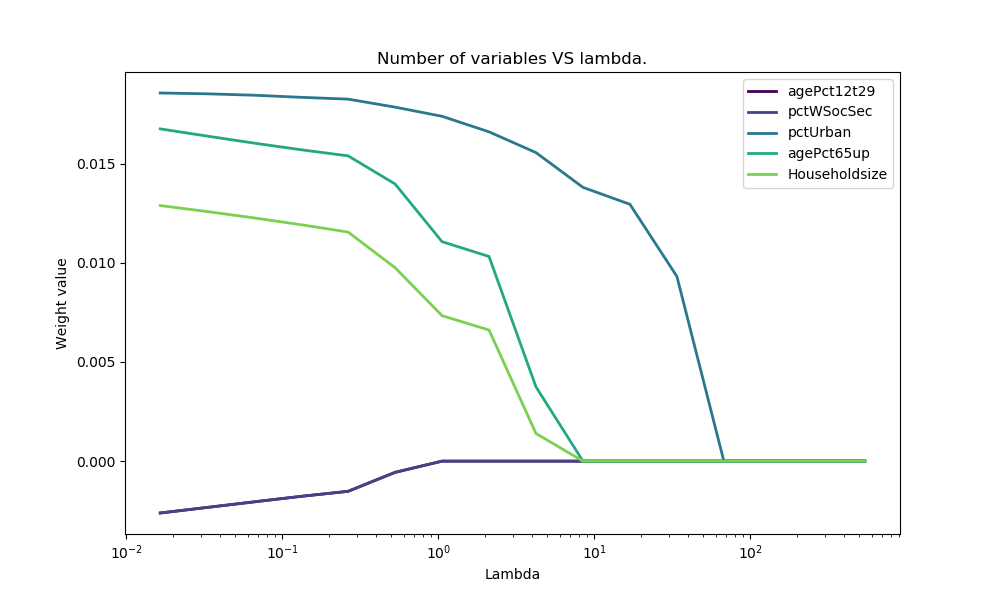
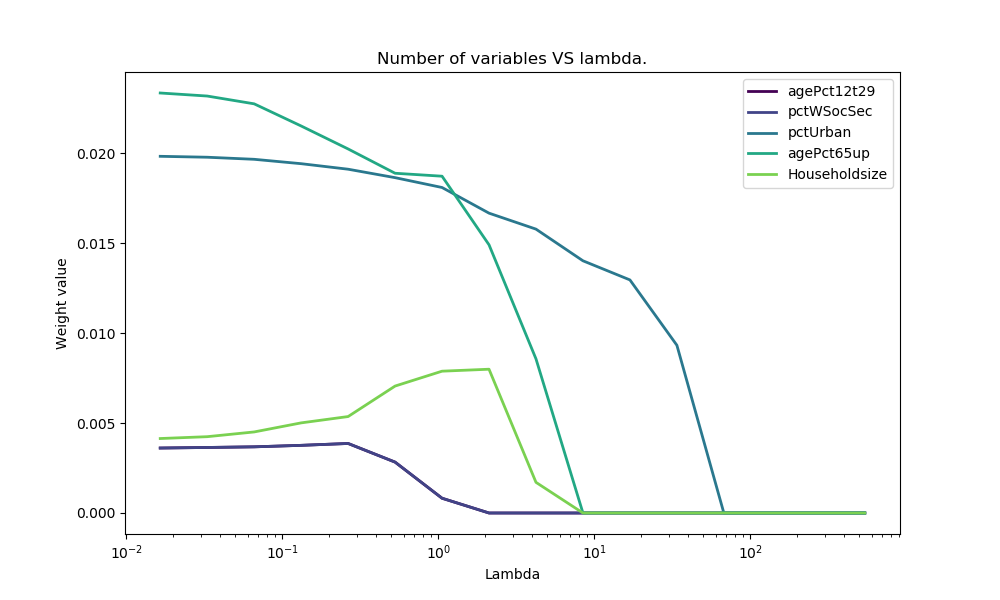
Update code and graphs.

diff --git a/HW2/HW2_code_solutions/coordinate_descent.py b/HW2/HW2_code_solutions/coordinate_descent.py
@@ -85,44 +85,6 @@ def coordinate_descent(x, y, lambd, tolerance=0.001, initW=None, convergeFast=Tr
     return w
 
 
-def generate_data(n, d, k, sigma):
-    """Generates i.i.d. samples of the model:
-        y_i = w^T x_i + eps
-    where
-        w_j = j/k if j in {1,...,k}
-        w_j = 0 otherwise
-    and epsilon is random Gussian noise with the given sigma and X are also
-    drawn from a Normal distribution with sigma 1. 
-
-    Parameters
-    ----------
-    n : `int`
-        Number of samples drawn at random from the model.
-    d : `int`
-        Dimensionality of the feature space. 
-    k : `int`
-        Cutoff point after which elements of w are zero.
-
-    Returns
-    -------
-    x : `np.array`
-        n-by-d sized array of data.
-    y : `np.array`
-        Vector of n model values. 
-    """
-    # gaussian noise and data
-    eps = np.random.normal(0, sigma**2, size=n)
-    x = np.random.normal(size=(n, d))
-
-    # weights
-    w = np.arange(1, d + 1) / k
-    w[k:] = 0
-
-    # labels
-    y = np.dot(x, w) + eps
-    return x, y
-
-
 def plot(ax, x, y, label="", xlabel="", ylabel="", title="", xlog=True, lc='black', lw=2):
     """Plots a line on given axis.
 
@@ -183,6 +145,44 @@ def lambda_max(x, y):
     return np.max(2 * np.abs(np.dot((y - np.mean(y)), x)))
 
 
+def generate_data(n, d, k, sigma):
+    """Generates i.i.d. samples of the model:
+        y_i = w^T x_i + eps
+    where
+        w_j = j/k if j in {1,...,k}
+        w_j = 0 otherwise
+    and epsilon is random Gussian noise with the given sigma and X are also
+    drawn from a Normal distribution with sigma 1. 
+
+    Parameters
+    ----------
+    n : `int`
+        Number of samples drawn at random from the model.
+    d : `int`
+        Dimensionality of the feature space. 
+    k : `int`
+        Cutoff point after which elements of w are zero.
+
+    Returns
+    -------
+    x : `np.array`
+        n-by-d sized array of data.
+    y : `np.array`
+        Vector of n model values. 
+    """
+    # gaussian noise and data
+    eps = np.random.normal(0, sigma**2, size=n)
+    x = np.random.normal(size=(n, d))
+
+    # weights
+    w = np.arange(1, d + 1) / k
+    w[k:] = 0
+
+    # labels
+    y = np.dot(x, w) + eps
+    return x, y
+
+
 def A4_setup(n=500, d=1000, k=100, sigma=1):
     """Creates data as instructed by A4 problem, calculates the smallest value
     of regularization parameter for which w is zero and returns data parameters,
@@ -218,7 +218,7 @@ def A4_setup(n=500, d=1000, k=100, sigma=1):
     return x, y, maxLambda, params
 
 
-def A4(nIter=20, tolerance=0.001):
+def A4(nIter=40, tolerance=0.001):
     """Sets the data up as instructed by problem A4 and runs coordinate
     descent Lasso algorithm nIter times, each time decreasing regularization
     parameter lambda by a factor of 1.5.
@@ -242,7 +242,7 @@ def A4(nIter=20, tolerance=0.001):
     lambdas, numNonZeros, fdrs, tprs = [], [], [], []
     w = np.zeros(params['d'])
     for i in range(nIter):
-        w = coordinate_descent(x, y, lambd, tolerance)
+        w = coordinate_descent(x, y, lambd, tolerance, convergeFast=False)
 
         nonZeros = np.count_nonzero(w)
         correctNonZeros = np.count_nonzero(w[:k])
@@ -331,7 +331,7 @@ def mean_square_error(x, y, w):
     return (a.T @ a)/len(y)
 
 
-def A5ab():
+def A5ab(tolerance=0.0001):
     """Sets the data up as instructed by problem A5 and runs coordinate
     descent Lasso algorithm untill the change in regularization parameter is
     smaller than 0.01. Each iteration decreases regularization parameter by a
@@ -342,9 +342,6 @@ def A5ab():
 
     Parameters
     ----------
-    nIter: `int`, optional
-        Number of different regularization parameter iterations to run. Default
-        is 20.
     tolerance: `float`, optional
         Coordinate descent tolerance, sets convergence criteria (see
         coordinate_descent). Default: 0.001.
@@ -369,7 +366,8 @@ def A5ab():
     # run the actual fit, note w overrides itself, do proper convergence
     # because this is much shorter loop than a.
     while lambd > 0.01:
-        w = coordinate_descent(xTrain.values, yTrain.values, lambd, initW=w, convergeFast=False)
+        w = coordinate_descent(xTrain.values, yTrain.values, lambd,
+                               tolerance=tolerance, initW=w, convergeFast=False)
 
         numNonZeros.append(np.count_nonzero(w))
         lambdas.append(lambd)

diff --git a/HW2/HW2_code_solutions/logistic_regression.py b/HW2/HW2_code_solutions/logistic_regression.py
@@ -409,6 +409,7 @@ def A6abc(nIter, lambd, step, stochastic=False, batchSize=1, title="Gradient Des
         testJ.append(J(testData, testLabels, wi, bi, lambd))
         trainMisslbls.append(count_missclassified(testData, wi, bi, testLabels))
 
+    print(w)
     print(f"{title}")
     print(f"    Converged to offset b={b:.4f}")
     print(f"    Objective converged for train to J={trainJ[-1]:.4f} and test J={testJ[-1]:.4f}")
